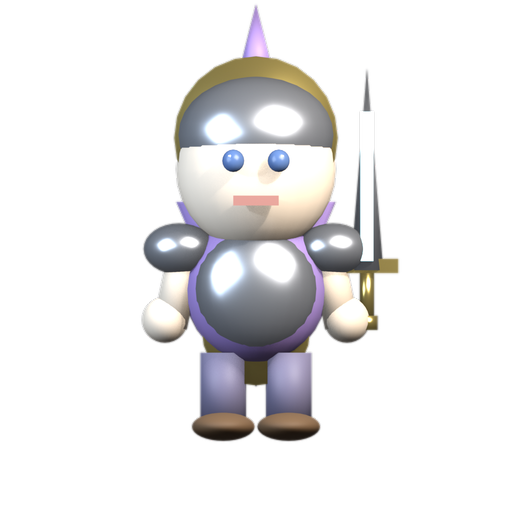
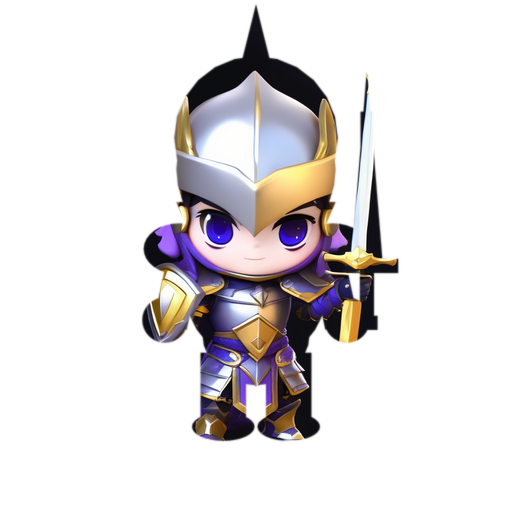
Ship the painted character set: 6 combat sprites and 6 portraits
The cast is now hand-painted rather than plastic. Each combat sprite is an
img2img paint-over of its Blender render at strength 0.9, with the render's own
alpha re-applied, so pose, framing and the feet-at-95% anchor survive untouched
while the surface gains armour, cloth, hair and weapons that read at 86px. The
portraits are separate txt2img work for the arrival toast and the victory and
defeat cards, where there is no silhouette to protect and detail is actually
visible.

Picks are recorded in picks.json with the reasoning, so the set can be rebuilt
from the seeds. Sprites were judged on the contact sheet at their true in-game
size, which is the only size that decides them — two candidates were rejected
there for stray paint outside the mask, and the hero for reading as a
white-haired mage rather than a knight. Portraits favour dark grounds, since
they sit in a near-black panel where a cream background reads as a lit square,
and otherwise the detail that names the character: the Ink Goblin's book and
quill, the undead's glowing tome, the wraith's empty hood.

Verified in the running game: all twelve load, both modals and the arrival
toast composite correctly, and the console is clean. public/enemies is 1.4 MB
and the portraits add 136 KB — still under the 2.8 MB the unpainted 1024px
renders cost before any of this.

Changed region(s): [[0.2812, 0.0312, 0.7812, 0.875]]

diff --git a/scripts/art/gen.py b/scripts/art/gen.py
@@ -33,7 +33,7 @@ offline by id.
 Usage:
     scripts/art/.venv-art/bin/python scripts/art/gen.py --probe
     scripts/art/.venv-art/bin/python scripts/art/gen.py --mode portrait goblin --seeds 7,11
-    scripts/art/.venv-art/bin/python scripts/art/gen.py --mode paintover --all --strength 0.5
+    scripts/art/.venv-art/bin/python scripts/art/gen.py --mode paintover --all --strength 0.9
 """
 import argparse
 import glob
